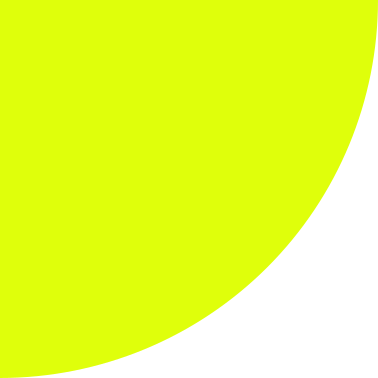
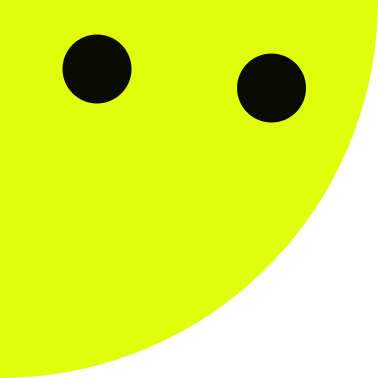
Sun facial expressions

Changed region(s): [[0.6111, 0.1164, 0.8148, 0.3492], [0.1455, 0.0873, 0.3492, 0.291]]

diff --git a/src/main.c b/src/main.c
@@ -32,6 +32,7 @@ State init(bool debug_mode) {
     .textures = {
       .default_purple  = LoadTexture("../assets/default_purple.png"),
       .sun             = LoadTexture("../assets/sun.png"),
+      .sun_shooting    = LoadTexture("../assets/sun_shooting.png"),
       .slingshot       = LoadTexture("../assets/slingshot.png"),
       .ball            = LoadTexture("../assets/ball.png"),
       .cloud           = LoadTexture("../assets/cloud.png"),

diff --git a/src/sun.c b/src/sun.c
@@ -111,6 +111,7 @@ void draw_laser_hitbox(State* st) {
 void draw_sun(State* st) {
   assert(st != NULL);
   Texture2D* tex = &st->textures.sun;
+  if (st->laser_cooldown < LASER_WARNING) tex = &st->textures.sun_shooting;
   DrawTexturePro(
     *tex,
     (Rectangle){.x = 0.0, .y = 0.0, .width = (f32)tex->width, .height = (f32)tex->height},

diff --git a/src/constants.c b/src/constants.c
@@ -28,6 +28,7 @@
 #define LASER_MAX_ANGLE 0.75f
 #define LASER_WIDTH 20
 #define LASER_HEIGHT 10
+#define LASER_WARNING 1
 #define SUN_RADIUS 70
 
 #define SLINGSHOT_WIDTH 160

diff --git a/src/definitions.c b/src/definitions.c
@@ -9,6 +9,7 @@
 typedef struct {
   Texture2D default_purple;
   Texture2D sun;
+  Texture2D sun_shooting;
   Texture2D slingshot;
   Texture2D ball;
   Texture2D cloud;
